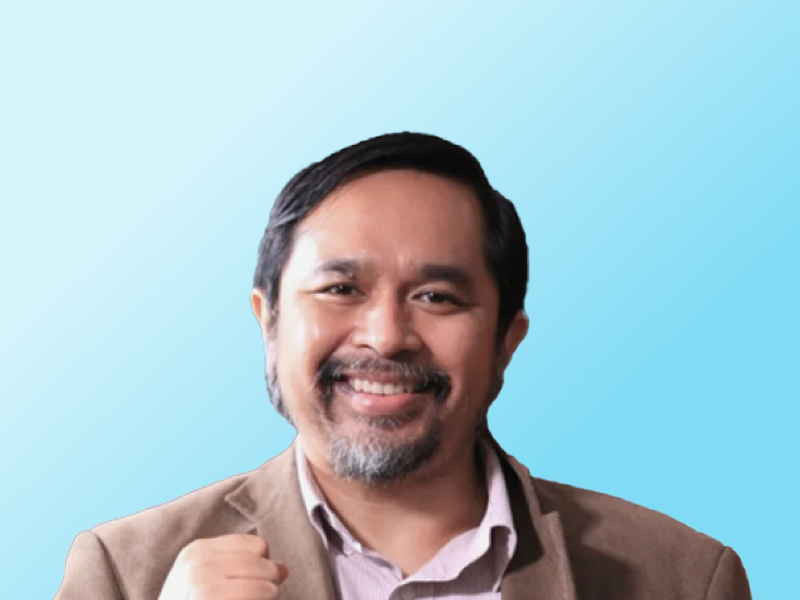
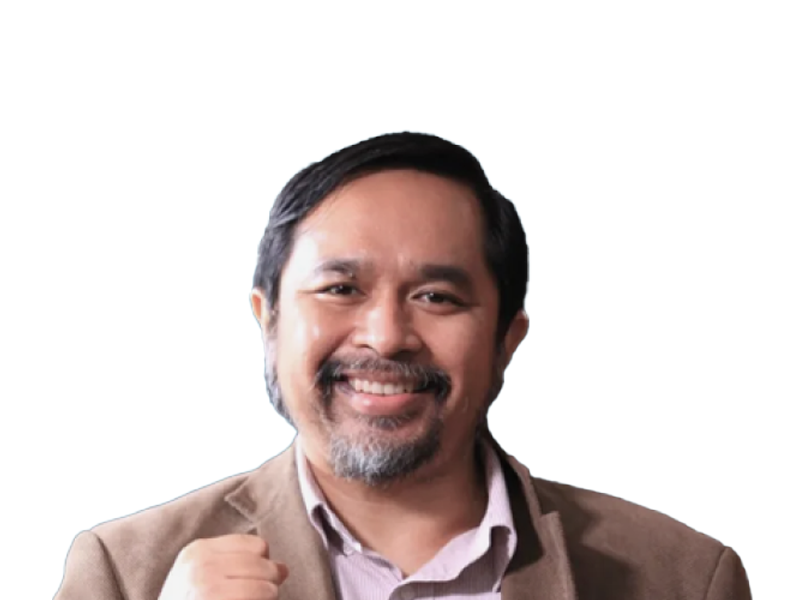
Adjust section Juri + tambah foto2 Juri

diff --git a/index.html b/index.html
@@ -37,14 +37,14 @@
     </nav>
 
     <!-- Hero -->
-    <header id="hero" class="hero d-flex align-items-center">
+    <header id="hero" class="hero d-flex align-items-center text-center text-md-start">
       <div class="container" style="margin-top: 20px">
         <div class="row align-items-center g-4">
           <div class="col-lg-6">
             <h1 class="display-5 fw-bold reveal-up">Lomba Karya Tulis Jurnalistik</h1>
             <h3 class="mt-3 fw-bold reveal-up delay-1">BPJS Ketenagakerjaan 2025</h3>
-            <h5 class="mt-3 fw-bold reveal-up delay-2">Tema: "Muda, Kerja, Terlindungi!"</h5>
-            <div class="d-flex gap-3 mt-4 reveal-up">
+            <h5 class="mt-3 fw-bold reveal-up delay-2">Tema: <br />"Muda, Kerja, Terlindungi!"</h5>
+            <div class="d-flex gap-3 mt-4 reveal-up justify-content-center justify-content-md-start">
               <a href="#" class="btn btn-primary btn-lg" style="margin-top: 50px"> Kirim Tulisan </a>
               <!-- <a href="#about" class="btn btn-outline-primary btn-lg"> <i class="bi bi-info-circle me-1"></i> Learn More </a> -->
             </div>
@@ -290,7 +290,7 @@
         <div class="row g-3 portfolio-grid">
           <div class="col-sm-6 col-lg-4 grid-item web">
             <figure class="portfolio-item card border-0 shadow-sm overflow-hidden rounded-4">
-              <img src="assets/img/juri-1.png" class="img-fluid" alt="Work 1" />
+              <img src="assets/img/juri-1.png" class="img-fluid" alt="Juri 1" style="background-color: #d5f3fb" />
               <figcaption class="p-3 d-flex align-items-center justify-content-between">
                 <div>
                   <h6 class="mb-1 fw-bold">Muhammad Zuhri</h6>
@@ -304,7 +304,7 @@
           </div>
           <div class="col-sm-6 col-lg-4 grid-item brand">
             <figure class="portfolio-item card border-0 shadow-sm overflow-hidden rounded-4">
-              <img src="assets/img/juri-2.png" class="img-fluid" alt="Work 2" />
+              <img src="assets/img/juri-2.png" class="img-fluid" alt="Juri 2" style="background-color: #d5f3fb" />
               <figcaption class="p-3 d-flex align-items-center justify-content-between">
                 <div>
                   <h6 class="mb-1 fw-bold">Wahyu Dhyatmika</h6>
@@ -318,7 +318,7 @@
           </div>
           <div class="col-sm-6 col-lg-4 grid-item app">
             <figure class="portfolio-item card border-0 shadow-sm overflow-hidden rounded-4">
-              <img src="assets/img/juri-3.png" class="img-fluid" alt="Work 3" />
+              <img src="assets/img/juri-3.png" class="img-fluid" alt="Juri 3" style="background-color: #d5f3fb" />
               <figcaption class="p-3 d-flex align-items-center justify-content-between">
                 <div>
                   <h6 class="mb-1 fw-bold">Timboel Siregar</h6>

diff --git a/assets/css/style.css b/assets/css/style.css
@@ -5,7 +5,7 @@
   --brand-400: #818cf8;
   --surface: #ffffff;
   --surface-soft: #f8f9fb;
-  --text: #111827;
+  --text: #414141;
   --muted: #6b7280;
   --radius: 1.25rem;
 }
